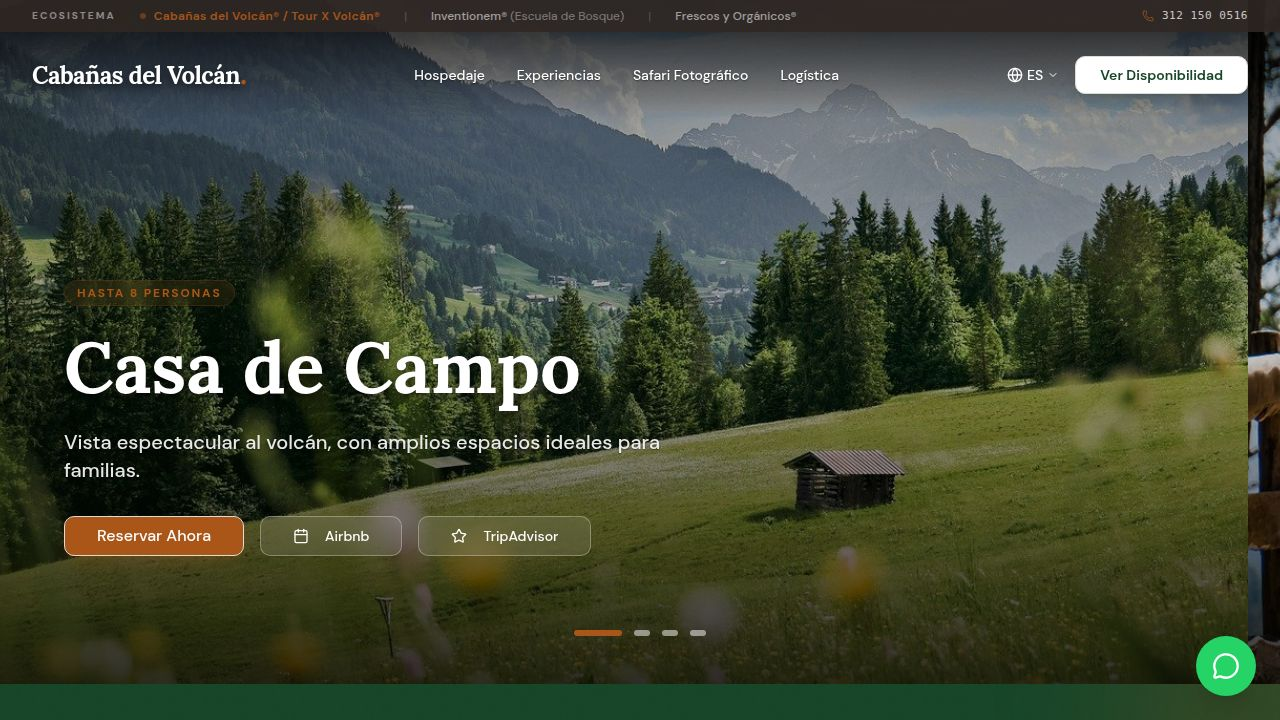
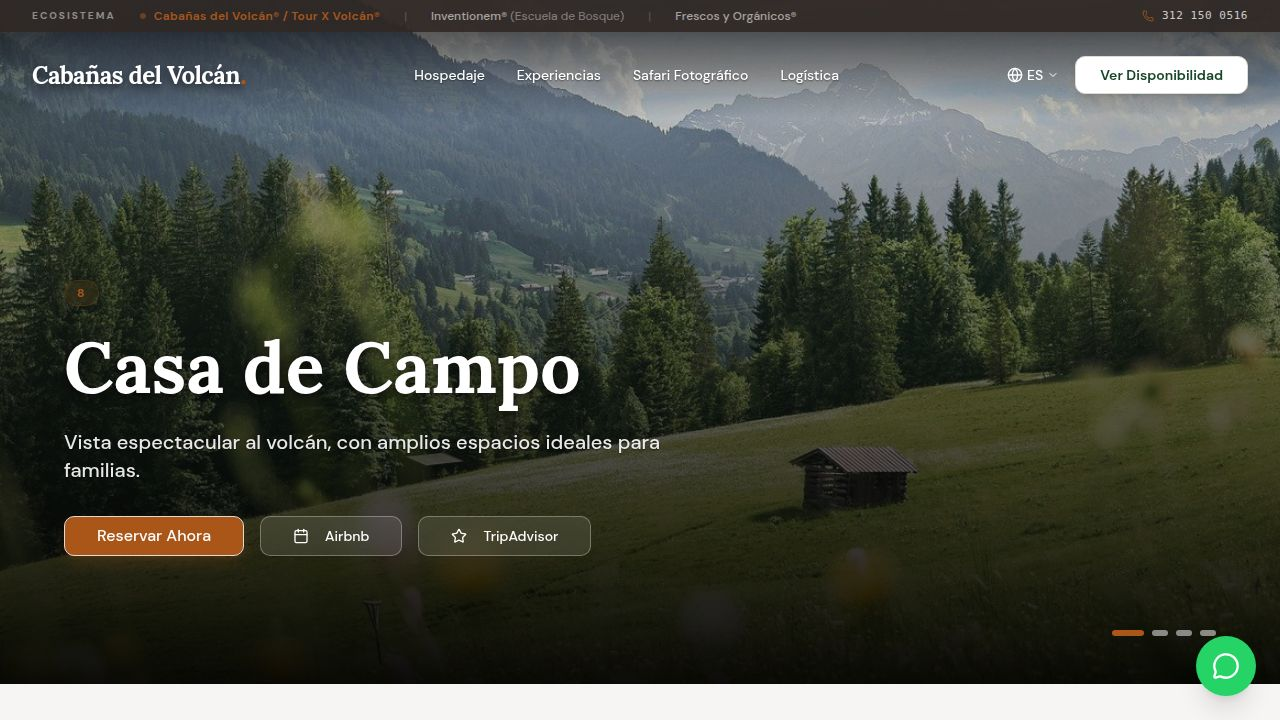
Add detailed cabin section with horizontal image galleries and technical specs
Implement a vertical scrolling cabin section with horizontal image carousels and structured technical details (capacity, rooms, bathrooms, beds). Update Notion CMS interface and mock data to support new cabin attributes.

Replit-Commit-Author: Agent
Replit-Commit-Session-Id: dc627766-3214-4f10-a68b-7da6c5ffb22e
Replit-Commit-Checkpoint-Type: full_checkpoint
Replit-Commit-Event-Id: f3a2178c-9f2c-429c-9c30-e15e6b4aff5e
Replit-Commit-Screenshot-Url: https://storage.googleapis.com/screenshot-production-us-central1/0442a91b-0f88-43b3-b644-6983b3f8b2ed/dc627766-3214-4f10-a68b-7da6c5ffb22e/eighGiS
Replit-Helium-Checkpoint-Created: true

diff --git a/client/src/pages/Home.tsx b/client/src/pages/Home.tsx
@@ -3,7 +3,7 @@ import { Header } from "@/components/layout/Header";
 import { Footer } from "@/components/layout/Footer";
 import { getCabins, getTours, getTestimonials, type Cabin, type Tour, type Testimonial } from "@/lib/notion";
 import { Button } from "@/components/ui/button";
-import { ArrowRight, MapPin, Star, MessageCircle, Camera, CheckCircle2, Calendar, PawPrint, ShieldCheck, Clock } from "lucide-react";
+import { ArrowRight, MapPin, Star, MessageCircle, Camera, CheckCircle2, Calendar, PawPrint, ShieldCheck, Clock, Users, BedDouble, Bath } from "lucide-react";
 
 export default function Home() {
   const [cabins, setCabins] = useState<Cabin[]>([]);
@@ -154,6 +154,104 @@ export default function Home() {
             <div className="w-8 h-8 border-4 border-accent border-t-transparent rounded-full animate-spin"></div>
           </div>
         )}
+      </section>
+
+      {/* Sección Detallada de Cabañas (Vertical Scroll con Horizontal Gallery) */}
+      <section id="nuestras-cabanas" className="w-full bg-background relative z-10">
+        <div className="py-20 px-6 md:px-16 max-w-7xl mx-auto text-center">
+          <span className="uppercase tracking-widest text-accent font-bold text-sm">Hospedaje</span>
+          <h2 className="text-4xl md:text-6xl font-serif font-bold text-foreground mt-4 mb-6">Nuestras Cabañas</h2>
+          <p className="text-lg md:text-xl text-muted-foreground max-w-2xl mx-auto">
+            Descubre nuestros espacios diseñados para integrarse armónicamente con el entorno natural, ofreciendo confort y vistas inigualables.
+          </p>
+        </div>
+
+        <div className="flex flex-col w-full">
+          {cabins.map((cabin, index) => (
+            <div 
+              key={cabin.id} 
+              className={`min-h-[85vh] w-full flex flex-col lg:flex-row items-center justify-center py-16 px-4 md:px-12 lg:px-24 gap-12 lg:gap-20 ${
+                index % 2 !== 0 ? 'bg-muted/50' : 'bg-background'
+              }`}
+            >
+              {/* Carrusel Horizontal de Imágenes */}
+              <div className={`w-full lg:w-3/5 h-[50vh] md:h-[60vh] rounded-3xl overflow-hidden shadow-2xl relative ${
+                index % 2 !== 0 ? 'lg:order-2' : 'lg:order-1'
+              }`}>
+                <div className="flex h-full w-full overflow-x-auto snap-x snap-mandatory scroll-smooth [&::-webkit-scrollbar]:hidden [-ms-overflow-style:none] [scrollbar-width:none]">
+                  {cabin.images?.map((img, i) => (
+                    <div key={i} className="w-full h-full flex-[0_0_100%] snap-center shrink-0 relative">
+                      <img 
+                        src={img} 
+                        alt={`${cabin.title} - imagen ${i + 1}`} 
+                        className="w-full h-full object-cover"
+                      />
+                      <div className="absolute inset-0 bg-gradient-to-t from-black/50 to-transparent pointer-events-none" />
+                    </div>
+                  ))}
+                </div>
+                {/* Scroll hint indicator */}
+                <div className="absolute bottom-4 left-1/2 -translate-x-1/2 flex gap-2 z-20 pointer-events-none">
+                  {cabin.images?.map((_, i) => (
+                    <div key={i} className="w-2 h-2 rounded-full bg-white/70 shadow-sm" />
+                  ))}
+                </div>
+              </div>
+
+              {/* Detalles Técnicos */}
+              <div className={`w-full lg:w-2/5 flex flex-col justify-center space-y-8 ${
+                index % 2 !== 0 ? 'lg:order-1' : 'lg:order-2'
+              }`}>
+                <div>
+                  <h3 className="text-4xl md:text-5xl font-serif font-bold text-foreground mb-4">{cabin.title}</h3>
+                  <p className="text-lg text-muted-foreground leading-relaxed">{cabin.description}</p>
+                </div>
+
+                <div className="grid grid-cols-2 gap-6 pt-6 border-t border-border/50">
+                  <div className="flex flex-col gap-2">
+                    <div className="flex items-center gap-3 text-primary">
+                      <div className="p-2.5 rounded-xl bg-primary/10">
+                        <Users className="w-6 h-6" />
+                      </div>
+                      <span className="font-semibold text-lg">{cabin.capacity} Personas</span>
+                    </div>
+                    <span className="text-sm text-muted-foreground ml-14">Capacidad máxima</span>
+                  </div>
+
+                  <div className="flex flex-col gap-2">
+                    <div className="flex items-center gap-3 text-primary">
+                      <div className="p-2.5 rounded-xl bg-primary/10">
+                        <BedDouble className="w-6 h-6" />
+                      </div>
+                      <span className="font-semibold text-lg">{cabin.rooms} Hab.</span>
+                    </div>
+                    <span className="text-sm text-muted-foreground ml-14">{cabin.bedsDetail}</span>
+                  </div>
+
+                  <div className="flex flex-col gap-2">
+                    <div className="flex items-center gap-3 text-primary">
+                      <div className="p-2.5 rounded-xl bg-primary/10">
+                        <Bath className="w-6 h-6" />
+                      </div>
+                      <span className="font-semibold text-lg">{cabin.bathrooms} Baños</span>
+                    </div>
+                    <span className="text-sm text-muted-foreground ml-14">Completamente equipados</span>
+                  </div>
+                </div>
+
+                <div className="pt-6">
+                  <Button 
+                    size="lg" 
+                    className="w-full sm:w-auto bg-accent text-white hover:bg-accent/90 text-lg px-8 py-6 rounded-xl shadow-lg shadow-accent/20 transition-all hover:scale-105"
+                    onClick={() => handleWhatsAppClick(`Hola, me gustaría información detallada y reservar la cabaña: ${cabin.title}`)}
+                  >
+                    Ver Disponibilidad <ArrowRight className="w-5 h-5 ml-2" />
+                  </Button>
+                </div>
+              </div>
+            </div>
+          ))}
+        </div>
       </section>
 
       {/* Sección Exclusividad "Todo el Sitio" */}

diff --git a/client/src/lib/notion.ts b/client/src/lib/notion.ts
@@ -6,7 +6,11 @@ export interface Cabin {
   title: string;
   description: string;
   imageUrl: string;
+  images: string[];
   capacity: string;
+  rooms: number;
+  bathrooms: number;
+  bedsDetail: string;
   slug: string;
   price?: number;
 }
@@ -34,32 +38,64 @@ export const getCabins = async (): Promise<Cabin[]> => {
       id: "1",
       title: "Casa de Campo",
       description: "Vista espectacular al volcán, con amplios espacios ideales para familias.",
-      capacity: "Hasta 8 personas",
+      capacity: "8",
+      rooms: 3,
+      bathrooms: 2,
+      bedsDetail: "1 King size, 3 matrimoniales",
       imageUrl: "/src/assets/images/cabana_1.jpg",
+      images: [
+        "/src/assets/images/cabana_1.jpg",
+        "/src/assets/images/cabana_2.jpg",
+        "/src/assets/images/cabana_3.jpg"
+      ],
       slug: "casa-de-campo"
     },
     {
       id: "2",
       title: "Cabaña Santa Helena",
       description: "Sostenibilidad y calidez en un ambiente que respeta la naturaleza.",
-      capacity: "Para 7 personas",
+      capacity: "7",
+      rooms: 2,
+      bathrooms: 1,
+      bedsDetail: "2 matrimoniales, 3 individuales",
       imageUrl: "/src/assets/images/cabana_2.jpg",
+      images: [
+        "/src/assets/images/cabana_2.jpg",
+        "/src/assets/images/cabana_1.jpg",
+        "/src/assets/images/krakatoa.jpg"
+      ],
       slug: "cabana-santa-helena"
     },
     {
       id: "3",
       title: "Monte Etna",
       description: "Rústica y acogedora en el corazón profundo del bosque.",
-      capacity: "Ideal parejas o familias pequeñas",
+      capacity: "4",
+      rooms: 1,
+      bathrooms: 1,
+      bedsDetail: "1 King size, 1 sofá cama",
       imageUrl: "/src/assets/images/cabana_3.jpg",
+      images: [
+        "/src/assets/images/cabana_3.jpg",
+        "/src/assets/images/krakatoa.jpg",
+        "/src/assets/images/cabana_1.jpg"
+      ],
       slug: "monte-etna"
     },
     {
       id: "4",
       title: "Refugio Krakatoa",
       description: "Experiencia térmica de piedra y mirador elevado hacia el coloso.",
-      capacity: "Experiencia premium",
+      capacity: "2",
+      rooms: 1,
+      bathrooms: 1,
+      bedsDetail: "1 King size",
       imageUrl: "/src/assets/images/krakatoa.jpg",
+      images: [
+        "/src/assets/images/krakatoa.jpg",
+        "/src/assets/images/cabana_3.jpg",
+        "/src/assets/images/cabana_2.jpg"
+      ],
       slug: "refugio-krakatoa"
     }
   ];
